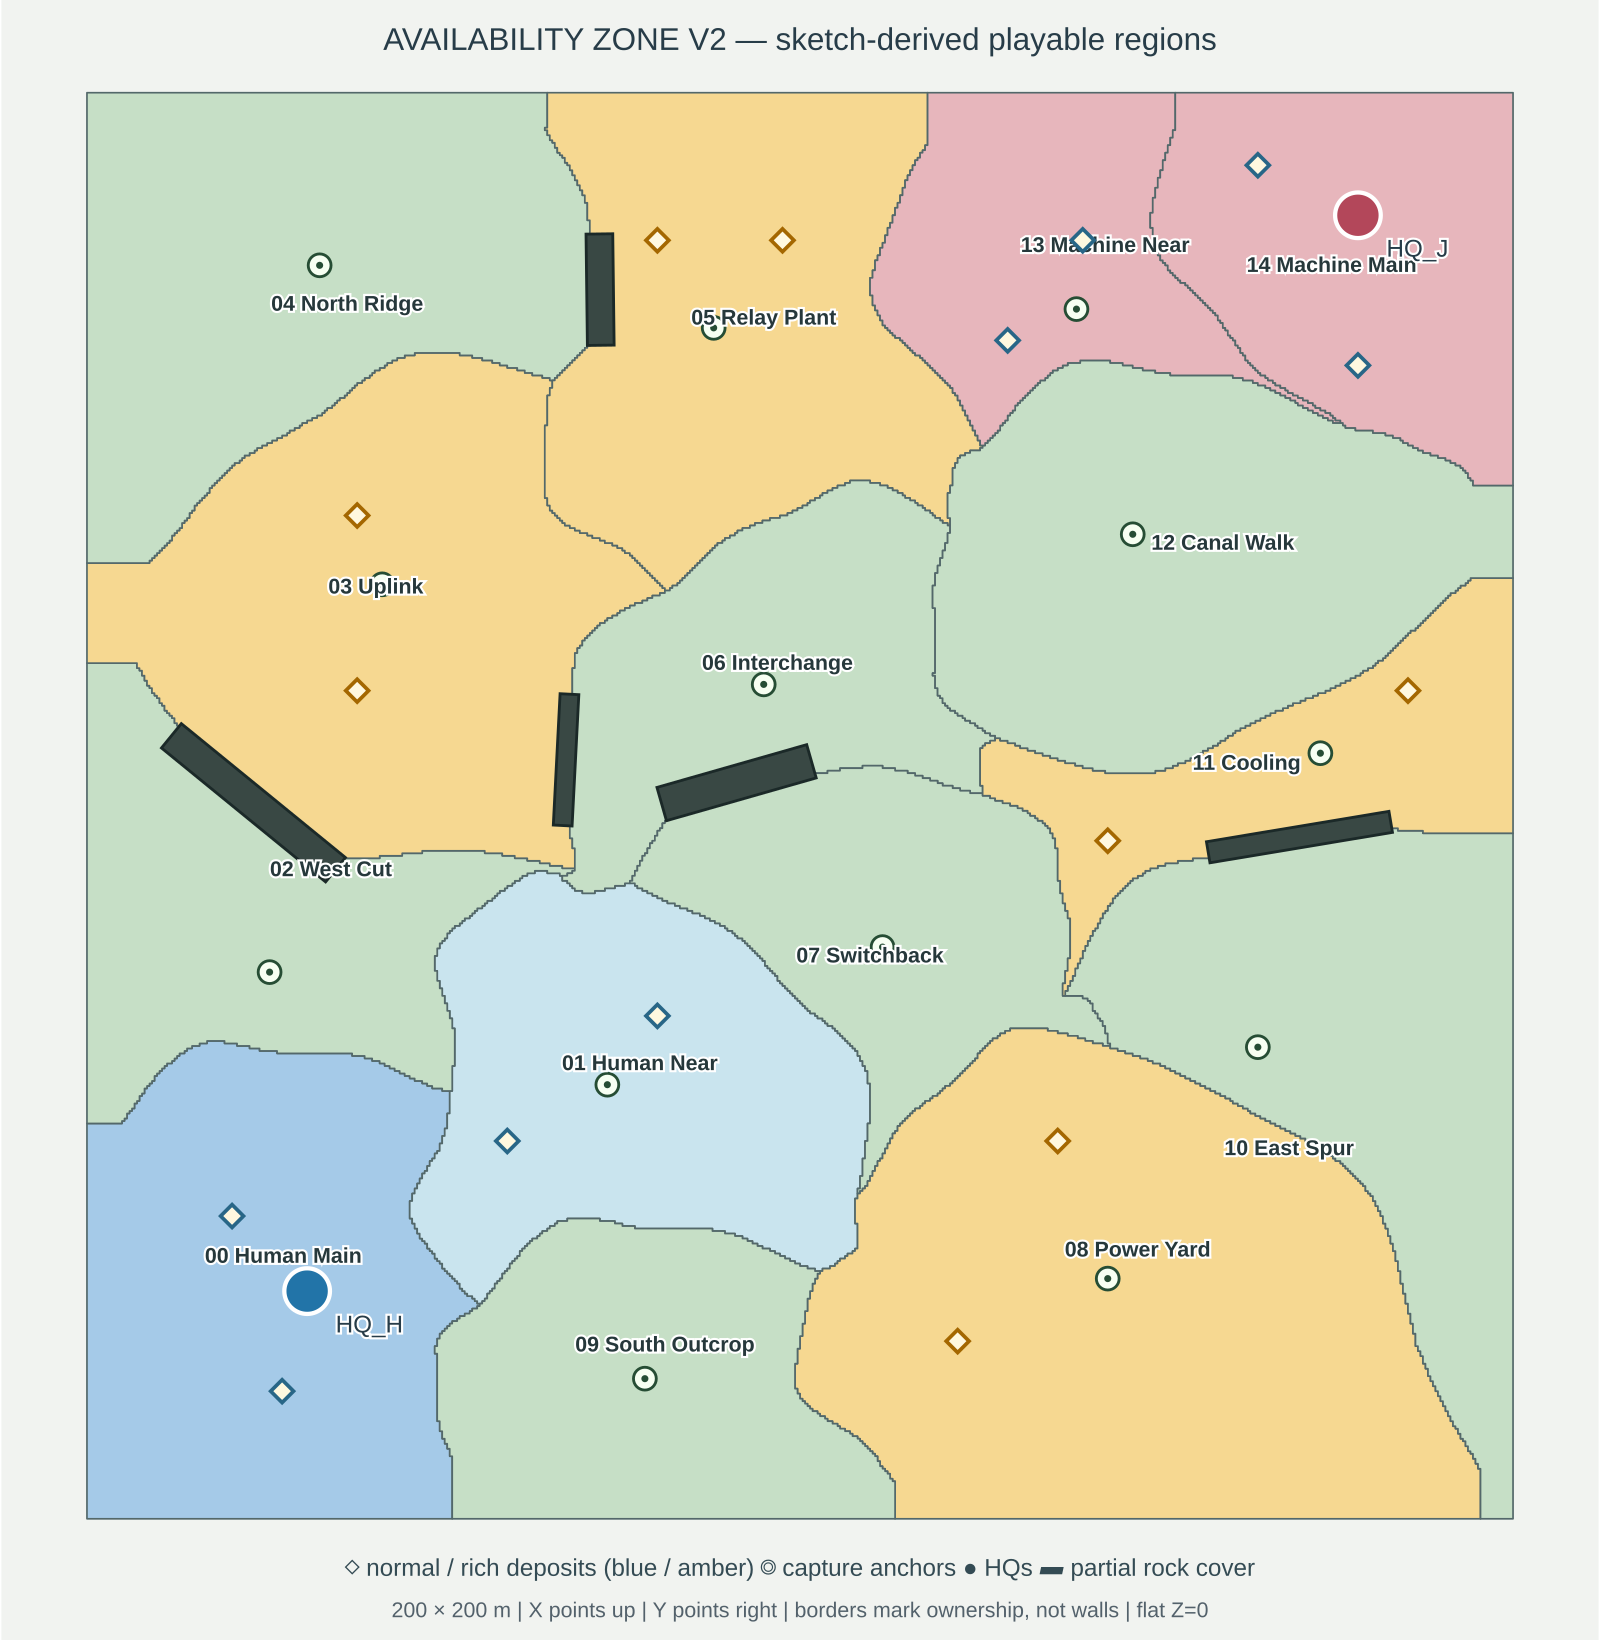
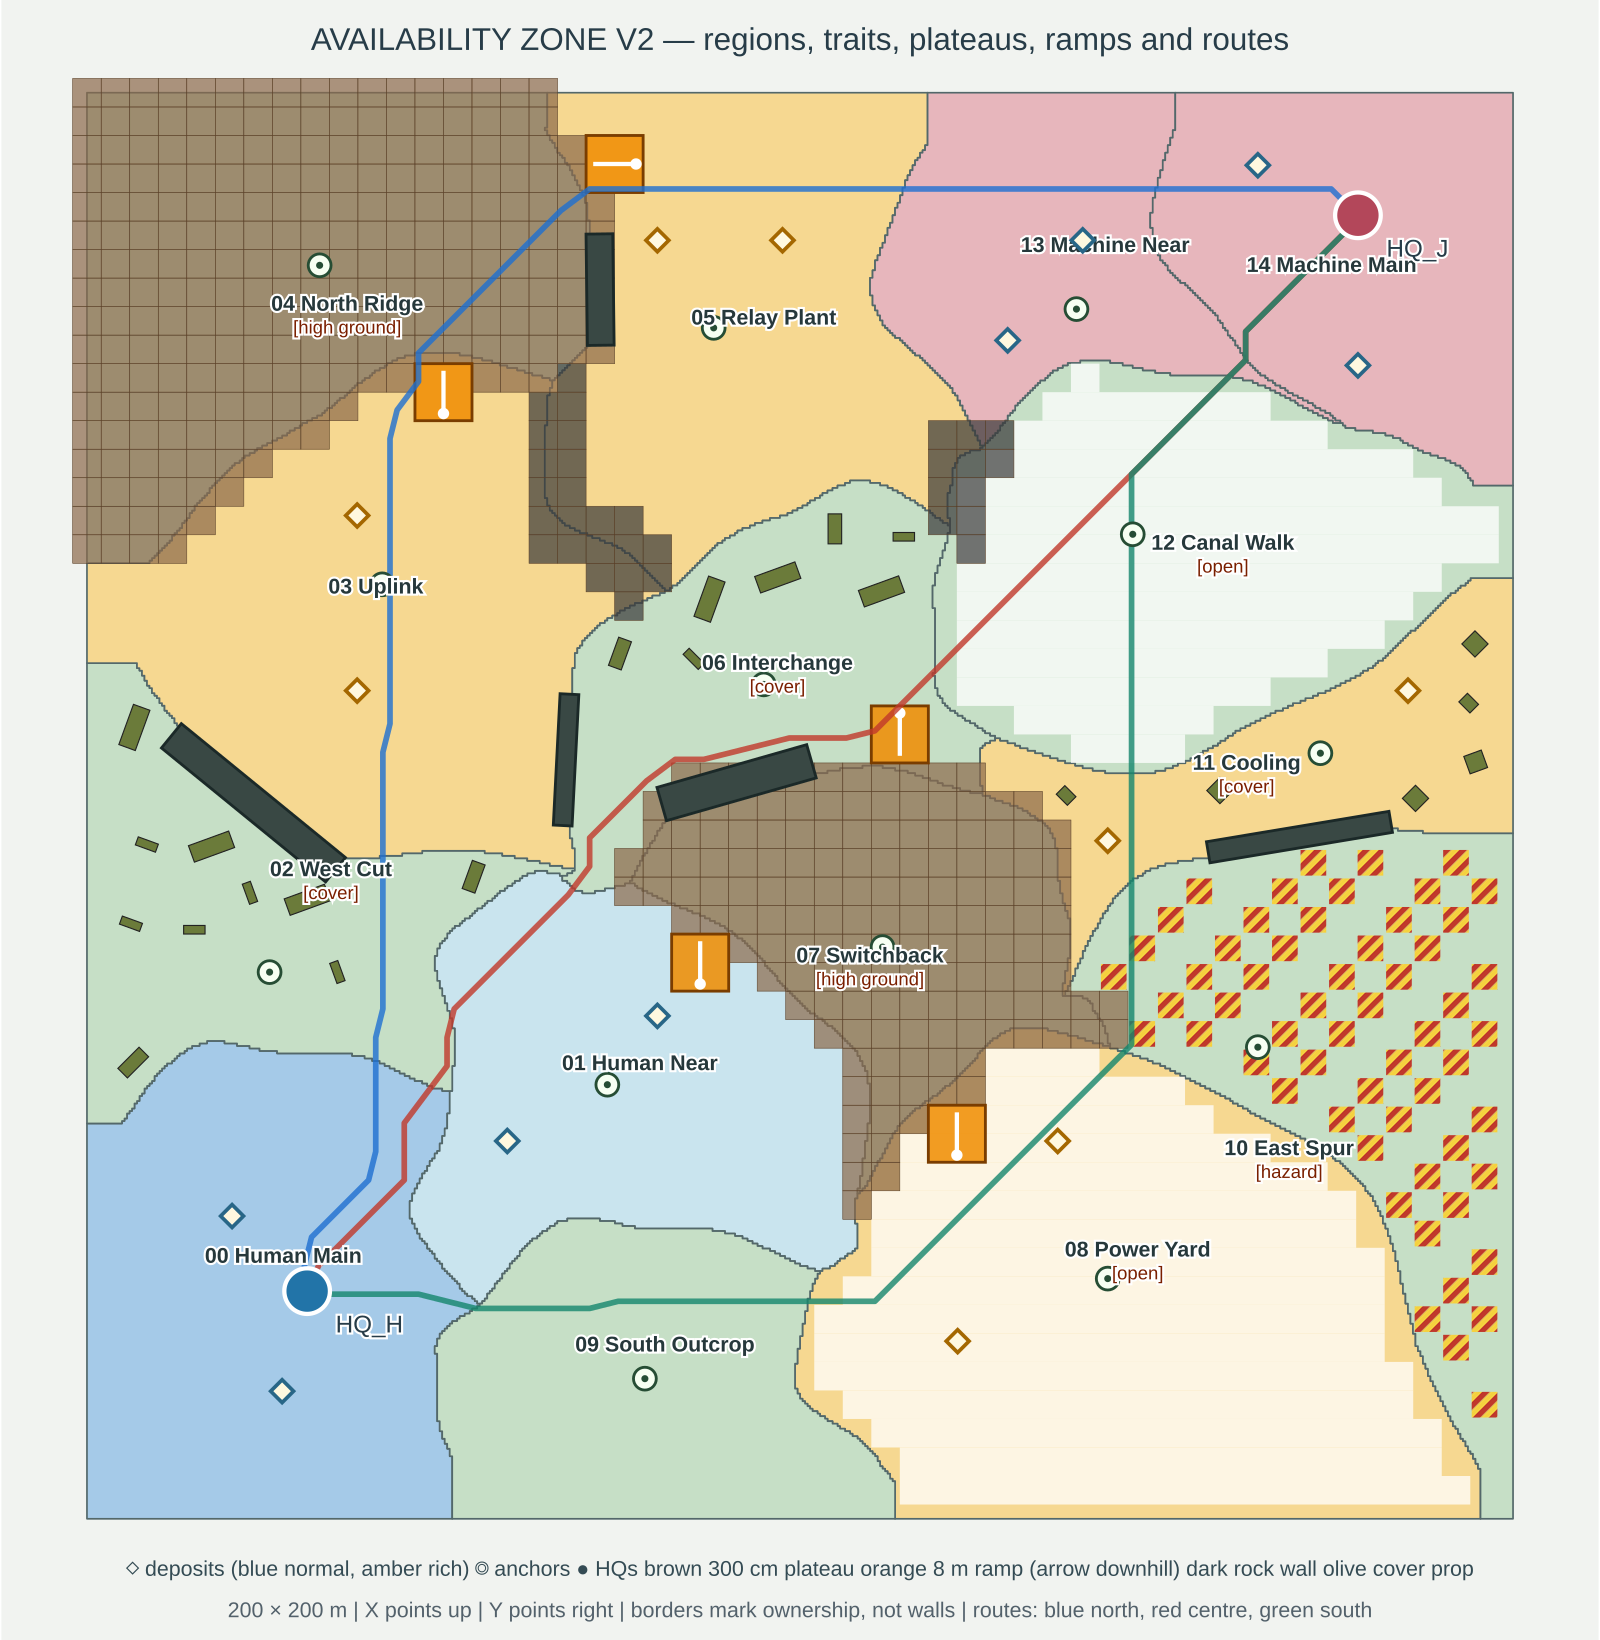
V2 terrain: tagged ground heights, height-correct cursor pick, layout drawing

diff --git a/Build/TerrainSpawn.py b/Build/TerrainSpawn.py
@@ -18,9 +18,12 @@ HAZARD_PLATE = 360.0
 VENT_EVERY = 3
 
 
-def as_obstacle(actor):
-    """Obstacles block everything but are dynamic-object type, so GroundHeight's static-ground probe passes over them."""
-    actor.static_mesh_component.set_collision_object_type(unreal.CollisionChannel.ECC_WORLD_DYNAMIC)
+GROUND_TAG = "Ground"  # GroundHeight::Tag: only tagged actors count as ground for heights and the cursor pick
+
+
+def as_ground(actor):
+    """Tag a floor, plateau, wall or ramp actor as ground."""
+    actor.set_editor_property("tags", [unreal.Name(GROUND_TAG)])
     return actor
 
 
@@ -55,21 +58,22 @@ def place_terrain(terrain, spawn, block, cylinder, materials):
     for cell in terrain.solid_pieces():
         name = suffixed(cell["piece"], cell["look"])
         kind = "Wall" if cell["wall"] else "Plateau"
-        TerrainKit.place_piece(name, cell["centre"], yaw=cell["yaw"], base=0.0,
-                               label="%s_%d_%d" % (kind, cell["cell"][0], cell["cell"][1]),
-                               folder="AZV2/Terrain/" + kind)
+        as_ground(TerrainKit.place_piece(name, cell["centre"], yaw=cell["yaw"], base=0.0,
+                                         label="%s_%d_%d" % (kind, cell["cell"][0], cell["cell"][1]),
+                                         folder="AZV2/Terrain/" + kind))
         counts["wall" if cell["wall"] else "plateau"] += 1
         if cell["wall"]:
             half = TerrainPlan.CELL / 2
             null_nav_volume(spawn, "WallNavCap_%d_%d" % cell["cell"], (cell["centre"][0], cell["centre"][1], terrain.height),
                             (half, half, 100.0))
     for ramp in terrain.ramp_pieces():
-        TerrainKit.place_piece(suffixed(ramp["piece"], ramp["look"]), ramp["centre"], yaw=ramp["yaw"], base=0.0,
-                               label="Ramp_%d_%d" % (ramp["centre"][0], ramp["centre"][1]), folder="AZV2/Terrain/Ramps")
+        as_ground(TerrainKit.place_piece(suffixed(ramp["piece"], ramp["look"]), ramp["centre"], yaw=ramp["yaw"], base=0.0,
+                                         label="Ramp_%d_%d" % (ramp["centre"][0], ramp["centre"][1]),
+                                         folder="AZV2/Terrain/Ramps"))
         counts["ramp"] += 1
     for number, prop in enumerate(terrain.props):
-        as_obstacle(EnvKit.place_piece(prop["kit"], prop["pos"], yaw=prop["yaw"], base=0.0,
-                                       label="Cover_%02d_%s" % (number, prop["kit"]), folder="AZV2/Terrain/Cover"))
+        EnvKit.place_piece(prop["kit"], prop["pos"], yaw=prop["yaw"], base=0.0,
+                           label="Cover_%02d_%s" % (number, prop["kit"]), folder="AZV2/Terrain/Cover")
         counts["prop"] += 1
     for number, (x, y) in enumerate(terrain.hazard_plates()):
         block("HazardPlate_%03d" % number, (x, y), (HAZARD_PLATE, HAZARD_PLATE, 3), materials["MI_AZ_Hazard"],

diff --git a/Source/CoopRTS/GroundHeight.cpp b/Source/CoopRTS/GroundHeight.cpp
@@ -1,27 +1,54 @@
 #include "GroundHeight.h"
 
 #include "Engine/World.h"
+#include "GameFramework/Actor.h"
 
 namespace
 {
 constexpr double ProbeTop = 3000.0;
 constexpr double ProbeBottom = -1000.0;
+constexpr double RayReach = 200000.0;
 constexpr double MinUpwardNormal = 0.3;
+
+bool IsGround(const FHitResult& Hit)
+{
+	const AActor* Actor = Hit.GetActor();
+	return Actor && Actor->ActorHasTag(GroundHeight::Tag);
 }
 
-double GroundHeight::At(const UWorld& World, double X, double Y, double Fallback)
+bool FirstGround(const UWorld& World, const FVector& Start, const FVector& End, bool bUpFacingOnly, FHitResult& OutHit)
 {
 	FCollisionObjectQueryParams Objects;
 	Objects.AddObjectTypesToQuery(ECC_WorldStatic);
 	FCollisionQueryParams Query(SCENE_QUERY_STAT(GroundHeight), false);
+	TArray<FHitResult> Hits;
+	World.LineTraceMultiByObjectType(Hits, Start, End, Objects, Query);
+	for (const FHitResult& Hit : Hits)
+		if (IsGround(Hit) && (!bUpFacingOnly || Hit.ImpactNormal.Z >= MinUpwardNormal))
+		{
+			OutHit = Hit;
+			return true;
+		}
+	return false;
+}
+}
+
+double GroundHeight::At(const UWorld& World, double X, double Y, double Fallback)
+{
 	FHitResult Hit;
-	if (!World.LineTraceSingleByObjectType(Hit, FVector(X, Y, ProbeTop), FVector(X, Y, ProbeBottom), Objects, Query)
-		|| Hit.ImpactNormal.Z < MinUpwardNormal)
-		return Fallback;
-	return Hit.ImpactPoint.Z;
+	return FirstGround(World, FVector(X, Y, ProbeTop), FVector(X, Y, ProbeBottom), true, Hit) ? Hit.ImpactPoint.Z : Fallback;
 }
 
 FVector GroundHeight::Snap(const UWorld& World, const FVector& Location)
 {
 	return FVector(Location.X, Location.Y, At(World, Location.X, Location.Y, Location.Z));
+}
+
+bool GroundHeight::Ray(const UWorld& World, const FVector& Origin, const FVector& Direction, FVector& OutPoint)
+{
+	FHitResult Hit;
+	if (!FirstGround(World, Origin, Origin + Direction.GetSafeNormal() * RayReach, false, Hit))
+		return false;
+	OutPoint = Hit.ImpactPoint;
+	return true;
 }

diff --git a/Source/CoopRTS/GroundHeight.h b/Source/CoopRTS/GroundHeight.h
@@ -5,13 +5,19 @@
 class UWorld;
 
 // Height of the walkable ground, for surfaces that must follow plateaus and ramps instead of assuming z = 0.
-// Ground is the top-most up-facing static surface (plateau, ramp, floor); cover props and rocks are dynamic-object
-// obstacles, so a probe over them still finds the ground. Works without a navmesh, so clients and the server agree.
+// Ground is static collision whose actor carries the tag below (the V2 generator tags its floor, plateau, wall and ramp
+// pieces); cover props, rocks, halls and buildings are never ground. A map with no tagged ground behaves as flat ground
+// at the caller's fallback, so older maps keep their z = 0 rules. Works without a navmesh: clients and server agree.
 namespace GroundHeight
 {
-// Ground z at (X, Y), or Fallback when nothing static lies below.
+inline const FName Tag = TEXT("Ground");
+
+// Ground z at (X, Y), or Fallback when no tagged up-facing ground lies below.
 double At(const UWorld& World, double X, double Y, double Fallback = 0.0);
 
 // Location with its z replaced by the ground height under it (the input z is the fallback).
 FVector Snap(const UWorld& World, const FVector& Location);
+
+// First ground a view ray meets (plateau top, ramp deck, floor, or a cliff face); false when it meets none.
+bool Ray(const UWorld& World, const FVector& Origin, const FVector& Direction, FVector& OutPoint);
 }

diff --git a/Build/GenerateAvailabilityZoneV2.py b/Build/GenerateAvailabilityZoneV2.py
@@ -169,8 +169,8 @@ def place_rock(rock):
     """A single oriented cube follows the exact four-corner measured rock mark."""
     box = require(rectangle(rock["poly"]), "Blocker must be a rotated rectangle: " + rock["id"])
     x, y, sx, sy, yaw = box
-    TerrainSpawn.as_obstacle(block("Rock_" + rock["id"], (x, y), (sx, sy, 360), materials["MI_AZ_MachineConcrete"],
-                                   yaw=yaw, collision=True, folder="AZV2/Rocks"))
+    block("Rock_" + rock["id"], (x, y), (sx, sy, 360), materials["MI_AZ_MachineConcrete"],
+          yaw=yaw, collision=True, folder="AZV2/Rocks")
 
 
 def simplified_outline(poly, tolerance=80.0):
@@ -250,8 +250,8 @@ def place_match_actors(region_defs, deposit_defs):
 anchors = place_match_actors(regions, data["deposits"])
 
 # One continuous solid, perfectly level ground slab. Its upper surface is z=0.
-block("FlatGround", (0, 0), (2 * (hx + 200), 2 * (hy + 200), 100), materials["MI_AZ_GravelDark"],
-      base=-100, collision=True, folder="AZV2/Ground")
+TerrainSpawn.as_ground(block("FlatGround", (0, 0), (2 * (hx + 200), 2 * (hy + 200), 100), materials["MI_AZ_GravelDark"],
+                             base=-100, collision=True, folder="AZV2/Ground"))
 for rock in data["blockers"]:
     place_rock(rock)
 terrain_counts = TerrainSpawn.place_terrain(terrain, spawn, block, cylinder, materials)

diff --git a/Source/CoopRTS/TerrainPlateauTests.cpp b/Source/CoopRTS/TerrainPlateauTests.cpp
@@ -107,6 +107,18 @@ private:
 					&& FVector::Dist2D(Picked, Anchor) < 5. && FMath::IsNearlyEqual(Picked.Z, PlateauHeight, 1.),
 				TEXT("A minimap pick on the plateau resolves to plateau height")))
 			return true;
+		// The cursor ray the camera casts at 60 degrees: it meets the plateau top above the cliff, not the floor below.
+		const FVector Eye = Anchor + FVector(-1500., 0., 2600.);
+		FVector Hit;
+		if (!Check(GroundHeight::Ray(*World, Eye, Anchor - Eye, Hit) && FVector::Dist2D(Hit, Anchor) < 5.
+					&& FMath::IsNearlyEqual(Hit.Z, PlateauHeight, 1.),
+				TEXT("A cursor ray aimed at the plateau picks the plateau top")))
+			return true;
+		const FVector FloorAnchor = State.GetRegionAnchor(1);
+		const FVector FloorEye = FloorAnchor + FVector(-1500., 0., 2600.);
+		if (!Check(GroundHeight::Ray(*World, FloorEye, FloorAnchor - FloorEye, Hit) && FVector::Dist2D(Hit, FloorAnchor) < 5. && FMath::Abs(Hit.Z) < 1.,
+				TEXT("A cursor ray aimed at flat ground picks the floor")))
+			return true;
 		Stage = 1;
 		return false;
 	}

diff --git a/Source/CoopRTS/CommandPlayerControllerInput.cpp b/Source/CoopRTS/CommandPlayerControllerInput.cpp
@@ -5,6 +5,7 @@
 #include "Engine/LocalPlayer.h"
 #include "EnhancedInputComponent.h"
 #include "EnhancedInputSubsystems.h"
+#include "GroundHeight.h"
 #include "HUD/HUDPanels.h"
 #include "InputAction.h"
 #include "InputCoreTypes.h"
@@ -138,6 +139,9 @@ bool ACommandPlayerController::CursorGround(FVector& Location) const
 	if (!GetMousePosition(X, Y) || !DeprojectScreenPositionToWorld(X, Y, Origin, Direction)
 		|| FMath::Abs(Direction.Z) < KINDA_SMALL_NUMBER)
 		return false;
+	// Height-correct pick: the first plateau, ramp or floor under the cursor; maps without tagged ground keep the z = 0 plane.
+	if (GroundHeight::Ray(*GetWorld(), Origin, Direction, Location))
+		return true;
 	// Single precision, as before the controller was split; the shared GroundPoint rule is double.
 	const float Time = -Origin.Z / Direction.Z;
 	if (Time <= 0.f || !FMath::IsFinite(Time))

diff --git a/Source/CoopRTS/TerrainRoutesTests.cpp b/Source/CoopRTS/TerrainRoutesTests.cpp
@@ -33,7 +33,7 @@ public:
 
 	virtual bool Update() override
 	{
-		if (FPlatformTime::Seconds() - Started > 420. || (Stage > 0 && FPlatformTime::Seconds() - LegStarted > 30.))
+		if (FPlatformTime::Seconds() - Started > 420. || (Stage > 0 && FPlatformTime::Seconds() - LegStarted > 60.))
 		{
 			Describe();
 			return Fail(FString::Printf(TEXT("Terrain routes timed out in leg %d hop %d"), LegIndex, Hop));

diff --git a/Docs/Maps/AvailabilityZoneV2.md b/Docs/Maps/AvailabilityZoneV2.md
@@ -49,14 +49,14 @@ Bunker → Cluster: **51.4 s** at 420 cm/s by the same 100 cm, eight-neighbour p
 | Open | 8 Power Yard, 12 Canal Walk | flat, no rocks or props, paved apron |
 | Hazard | 10 East Spur | flat; hazard-striped plates and glowing vents, no collision |
 
-Ridge ramps lead to Uplink (3) and Relay Plant (5); Switchback ramps lead to Human Near (1), Interchange (6) and Power Yard (8). Ramps stand on the lower region's ground.
+Ridge ramps lead to Uplink (3) and Relay Plant (5); Switchback ramps lead to Human Near (1), Interchange (6) and Power Yard (8). Ramps stand on the lower region's ground. A plateau covers every 4 m cell its region's polygon touches, so no ground-level strip is left inside a plateau region (units at a cliff foot belong to the neighbour). Ground heights (camera focus, minimap and cursor picks, building placement) come from `GroundHeight`, which only counts actors tagged `Ground`: the generator tags the floor, plateau, wall and ramp pieces, so maps without tagged ground keep their z = 0 rules.
 
 **Closed borders** leave `neighbours` (supply and orders follow what units can walk): rock walls between 2–6, 3–5 and 5–12, and plateau cliffs between 7–10 and 7–11. Nothing else about adjacency, anchors, deposits or posts changed. Necks with two neighbours: North Ridge (3, 5) and East Spur (8, 11).
 
 | Route | Regions | Length | Time | Costs |
 | --- | --- | ---: | ---: | --- |
-| North (Ridge) | 0-2-3-4-5-13-14 | 290 m | 69 s | longest; both rich rewards 3 and 5; two ramps over the ridge |
+| North (Ridge) | 0-2-3-4-5-13-14 | 282 m | 67 s | longest; both rich rewards 3 and 5; two ramps over the ridge |
 | Center (Hub) | 0-1-6-12-14 | 227 m | 52 s | shortest; 13 m gap between 1 and 6; cover hub |
-| South (Spur) | 0-9-8-10-11-12-14 | 259 m | 58 s | 118 m of open ground (+15% speed) but 20 m of hazard (about 19 damage at 4/s) |
+| South (Spur) | 0-9-8-10-11-12-14 | 261 m | 59 s | open ground (+15% speed) but a hazard stretch (about 23 damage at 4/s) |
 
 Times count open ground at +15% speed. The audit (`./x gen draw-availability-zone-v2`) enforces the trait counts, the ramp and prop placement rules, the walkable graph equalling `neighbours`, walkable routes and the stretch rule on raised ground. Authored posts did not move.
